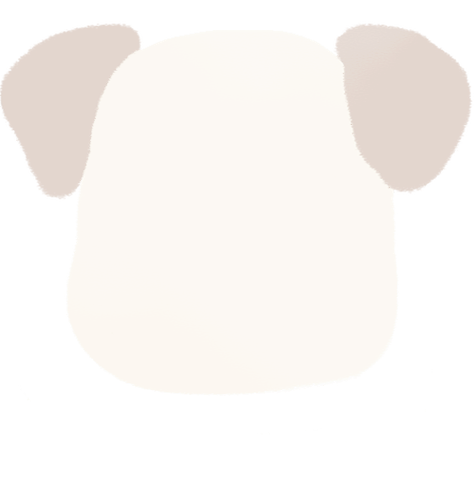
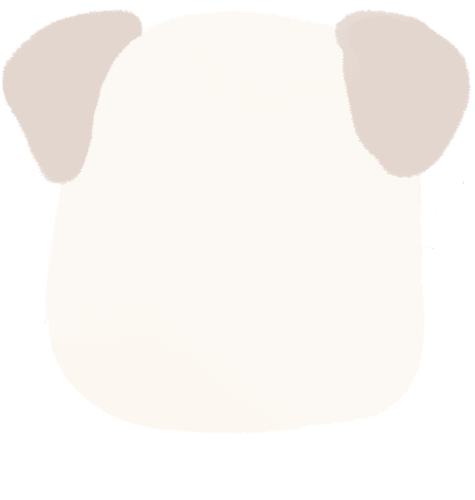
毛孩領養背景樣式完成

diff --git a/HomeForStray/public/stylesheets/style.css b/HomeForStray/public/stylesheets/style.css
@@ -396,12 +396,13 @@ input.form-control {
 		transform: translateY(0px);
 		margin-top: 20px;
 	}
-	.adopList-group>.bg{
+	/* 狗狗 */
+	/* .adopList-group>.bg{
 		background-image: url(../img/新圖/godbackground.png);
 		background-size: cover;
 		width: 100%;
 		height: 100%;
-	}
+	} */
 	/* 毛孩領養資訊 */
 	.share-left {
 		margin-right: 0px;
@@ -806,8 +807,27 @@ div.adop-name {
 	justify-content: space-around;
 	/* margin-top: 100px; */
 }
-.adopt-bg{
+/* 狗狗 */
+.adopt-bg-dog{
 	background: url(../img/新圖/adoptdog1.png);
+	background-repeat: no-repeat;
+	background-position: center;
+	background-size:inherit;
+	width: 100%;;
+	height: 100%;
+}
+/* 貓貓 */
+.adopt-bg-cat{
+	background: url(../img/新圖/adoptcat1.png);
+	background-repeat: no-repeat;
+	background-position: center;
+	background-size:inherit;
+	width: 100%;;
+	height: 100%;
+}
+/* 其他 */
+.adopt-bg-other{
+	background: url(../img/新圖/adoptOther.png);
 	background-repeat: no-repeat;
 	background-position: center;
 	background-size:inherit;
